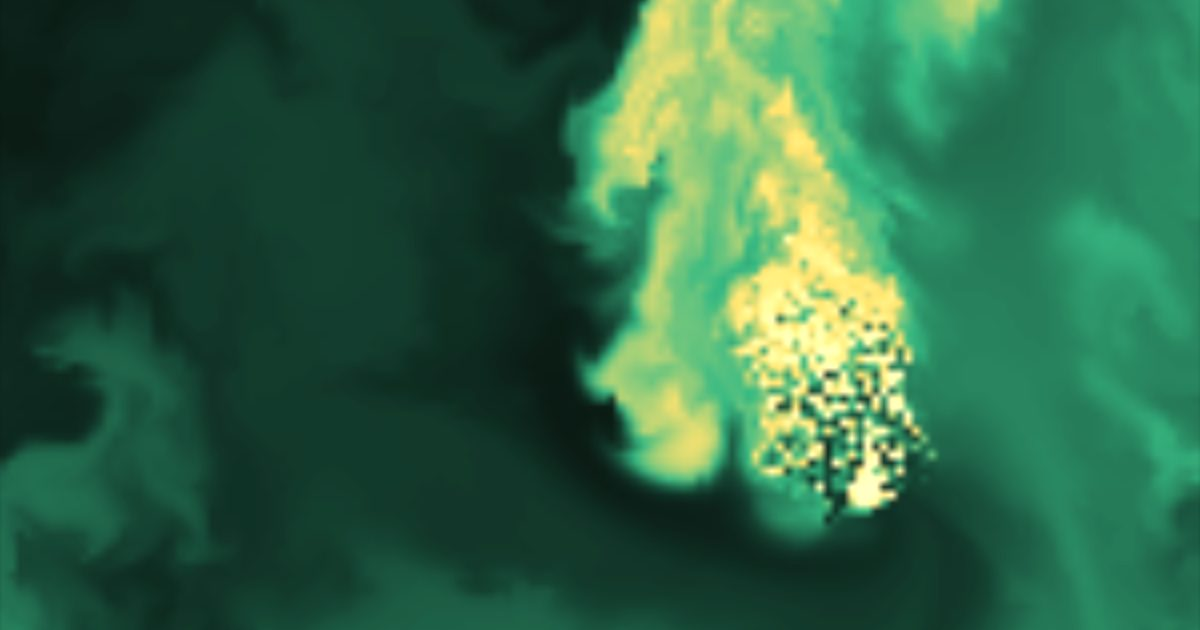
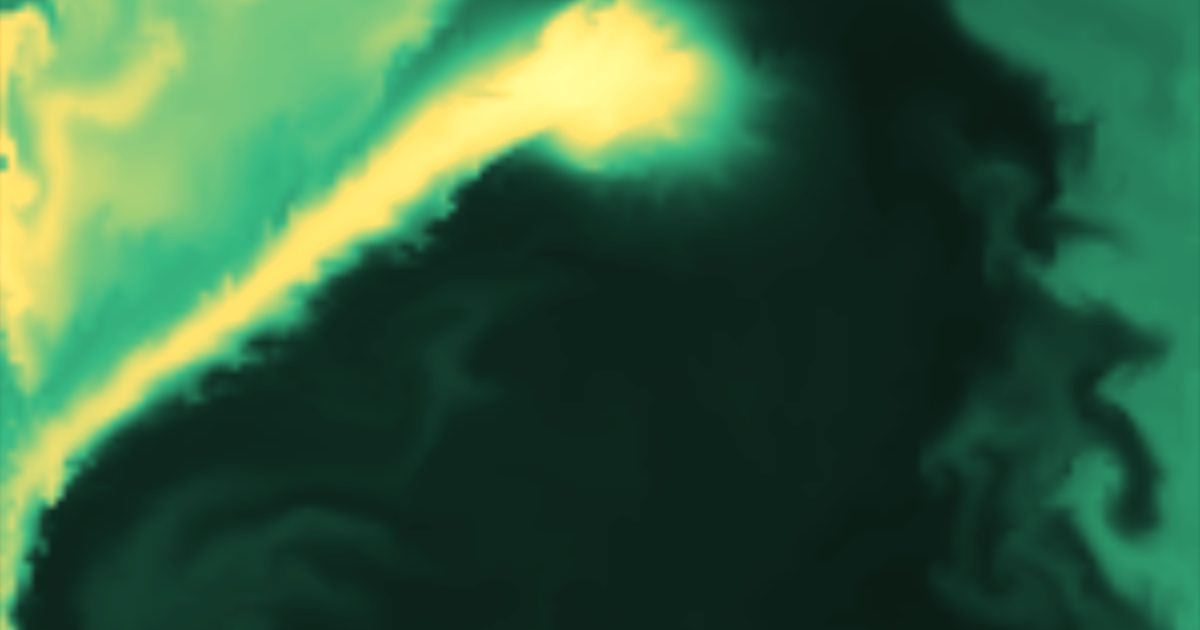
Stable Fluids: billowing jet without the emitter checkerboard
The emitter's sharp 5x5 kick of 46 gave a ~3-cell core moving ~80 cells per
step, so neighbouring semi-Lagrangian backtraces landed far apart and the dye
broke into a checker block. The push is now a smooth Gaussian nozzle (sigma 10
along x 8 across, 10 cells ahead of a Gaussian dye source) that breathes
0 -> 2x -> 0 every 40 steps, adding the old kick's momentum on average: max
backtrace ~9 cells, no checker at any size; mean speed +11% and kinetic energy
+4% vs the original (the needle peak itself is gone by design). Solver, swirl
and fade unchanged. Also: stage fits the window; new 1200x630 OG capture.

diff --git a/12-stable-fluids/index.html b/12-stable-fluids/index.html
@@ -38,6 +38,8 @@ h1{font-size:30px;margin:9px 0 2px;font-weight:600}
   box-shadow:0 0 0 1px rgba(232,196,94,.14),0 30px 80px -30px #000;background:#05080699}
 canvas{display:block;max-width:100%;height:auto;cursor:crosshair;touch-action:none}
 .stage{max-width:100%}
+/* cap the stage by the viewport height, so the piece and the first row of controls fit on one screen */
+canvas{width:min(760px,max(300px,calc((100vh - 230px))));width:min(760px,max(300px,calc((100svh - 230px))))}
 /* short landscape phones: the touch-action:none canvas must not fill the viewport, or a swipe can never scroll the
    page. Cap the stage so ~120px of page stays outside it (aspect 1: the canvas keeps its shape via max-width). */
 @media (max-height:500px){.stage{max-width:min(100%,calc(100vh - 120px));max-width:min(100%,calc(100svh - 120px))}}
@@ -89,7 +91,6 @@ const canvas=document.getElementById('c');
 const DISP=760;                       // fixed internal display size (NOT window-derived)
 function fit(){const dpr=Math.min(window.devicePixelRatio||1,2);
   canvas.width=DISP*dpr;canvas.height=DISP*dpr;
-  canvas.style.width=DISP+'px';
   const x=canvas.getContext('2d');x.setTransform(dpr,0,0,dpr,0,0);return x;}
 const ctx=fit();
 
@@ -262,18 +263,29 @@ function autoEmit(){
   const t=frame*0.012;
   const cx=(N>>1)+Math.cos(t)*N*0.26;
   const cy=(N>>1)+Math.sin(t*1.3)*N*0.26;
-  const i=Math.max(2,Math.min(N-1,cx|0));
-  const j=Math.max(2,Math.min(N-1,cy|0));
   // tangential (curling) velocity along the orbit direction
   const tx=-Math.sin(t), ty=Math.cos(t*1.3)*1.3;
-  const tl=Math.hypot(tx,ty)+1e-6;
-  for(let dj=-2;dj<=2;dj++)for(let di=-2;di<=2;di++){
-    const ii=i+di, jj=j+dj;
-    if(ii<1||ii>N||jj<1||jj>N)continue;
-    const fall=Math.exp(-(di*di+dj*dj)*0.5);
-    dens0[IX(ii,jj)] += 58*fall;
-    u0[IX(ii,jj)] += (tx/tl)*46*fall;
-    v0[IX(ii,jj)] += (ty/tl)*46*fall;
+  const tl=Math.hypot(tx,ty)+1e-6, dx=tx/tl, dy=ty/tl;
+  // A soft nozzle, not a needle. A sharp 5×5 kick of 46 gave a 3-cell core that moved ~80 cells per step, so the
+  // semi-Lagrangian backtraces of neighbouring cells landed far apart and the ink broke into a pixel checker.
+  // The push is now a smooth Gaussian (σ 10 cells along the jet, 8 across) centred 10 cells ahead of the dye, so
+  // the ink enters where the flow is still slow and is stretched, not scattered, as it speeds up. The push
+  // breathes (0 → 2× → 0 every 40 steps); each breath throws a puff that curls into billows. On average it adds
+  // the same momentum per step as the old kick, so the field keeps the old kinetic energy.
+  const push=0.637*(1-Math.cos(frame*0.15708));
+  const i0=Math.max(1,Math.ceil(cx-40)), i1=Math.min(N,Math.floor(cx+40));
+  const j0=Math.max(1,Math.ceil(cy-40)), j1=Math.min(N,Math.floor(cy+40));
+  for(let jj=j0;jj<=j1;jj++)for(let ii=i0;ii<=i1;ii++){
+    const fx=ii-cx, fy=jj-cy;
+    const al=fx*dx+fy*dy, ac=fy*dx-fx*dy;             // distance along / across the jet
+    if(ac*ac>800)continue;                             // beyond ~3σ across: both kernels are < 0.002
+    const k=IX(ii,jj);
+    const wd=Math.exp(-al*al/72-ac*ac/128);            // dye: σ 6 along × 8 across, at the emitter
+    if(wd>0.002) dens0[k] += 1.85*wd;
+    const pa=al-10, w=Math.exp(-pa*pa/200-ac*ac/128);  // push: σ 10 along × 8 across, 10 cells ahead
+    if(w<0.002)continue;
+    u0[k] += dx*push*w;
+    v0[k] += dy*push*w;
   }
 }
 
